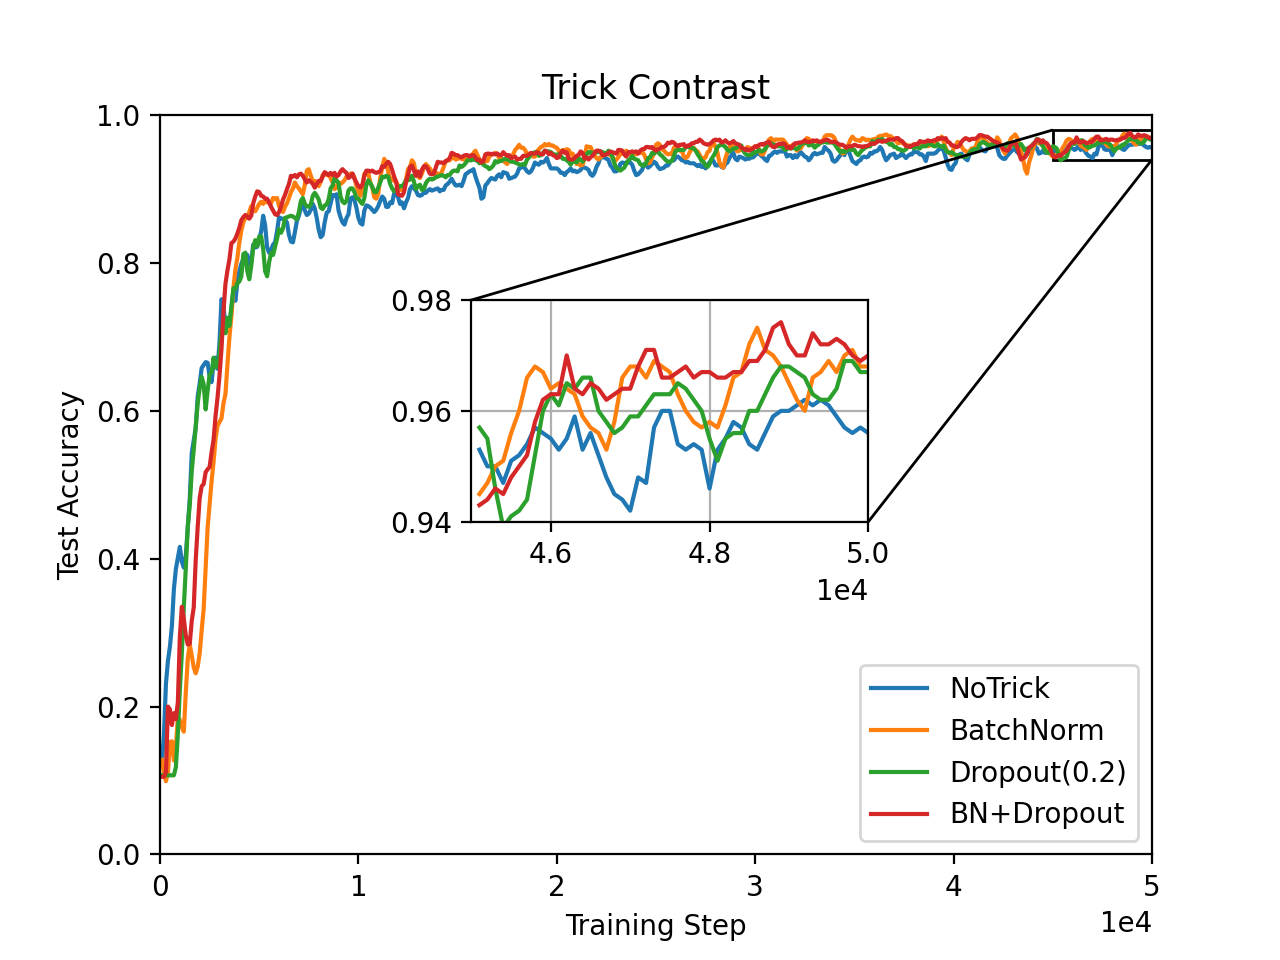
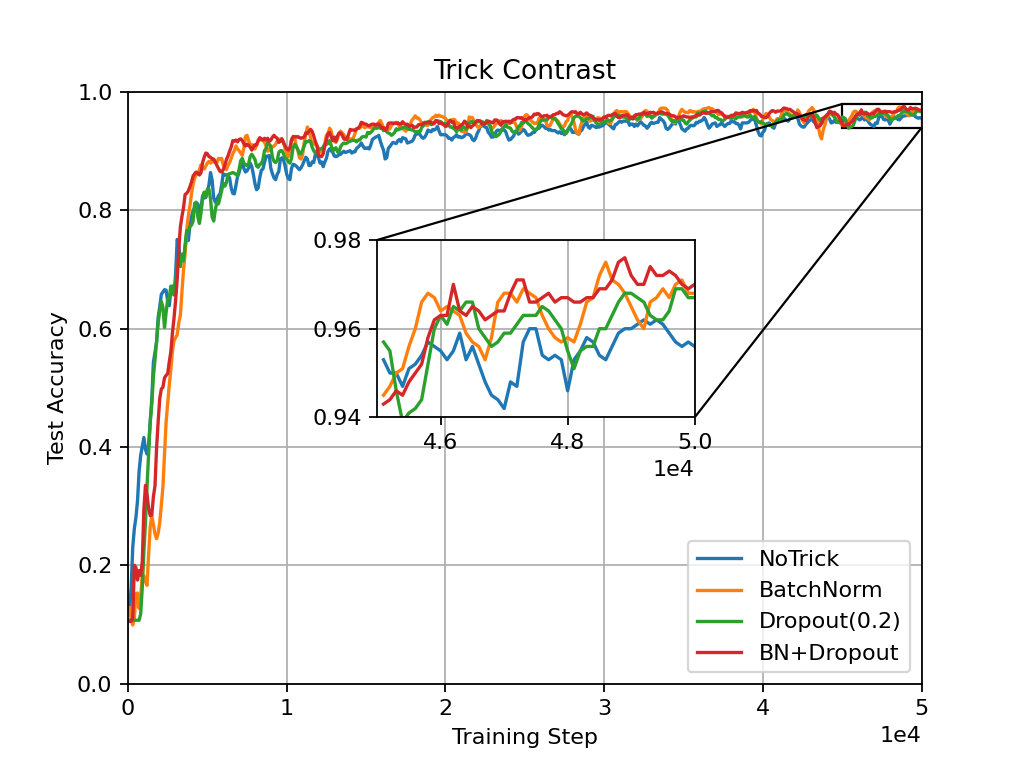
update README.md

diff --git a/README.md b/README.md
@@ -66,6 +66,9 @@ Chen's Artificial Neural Network constructeD with numpY
 - 循环神经网络模型对sin函数未来趋势预测效果<br>
 <img src="Pic/RNN_predict.gif" width="288" height="220" alt="RNN预测"/>
 - 卷积神经网络LeNet-5模型手写数字的识别效果(测试集准确率高达99%)<br>
+0. 训练损失与测试准确率表现及不同trick下的模型表现<br>
+<img src="Pic/CNN_train.png" width="288" height="230"/>
+<img src="Pic/Trick_contrast.png" width="288" height="230"/>
 1. 输入图像与输出预测结果及概率<br>
 <img src="Pic/Input.png" width="288" height="250"/>
 <img src="Pic/Result.png" width="288" height="250"/>
